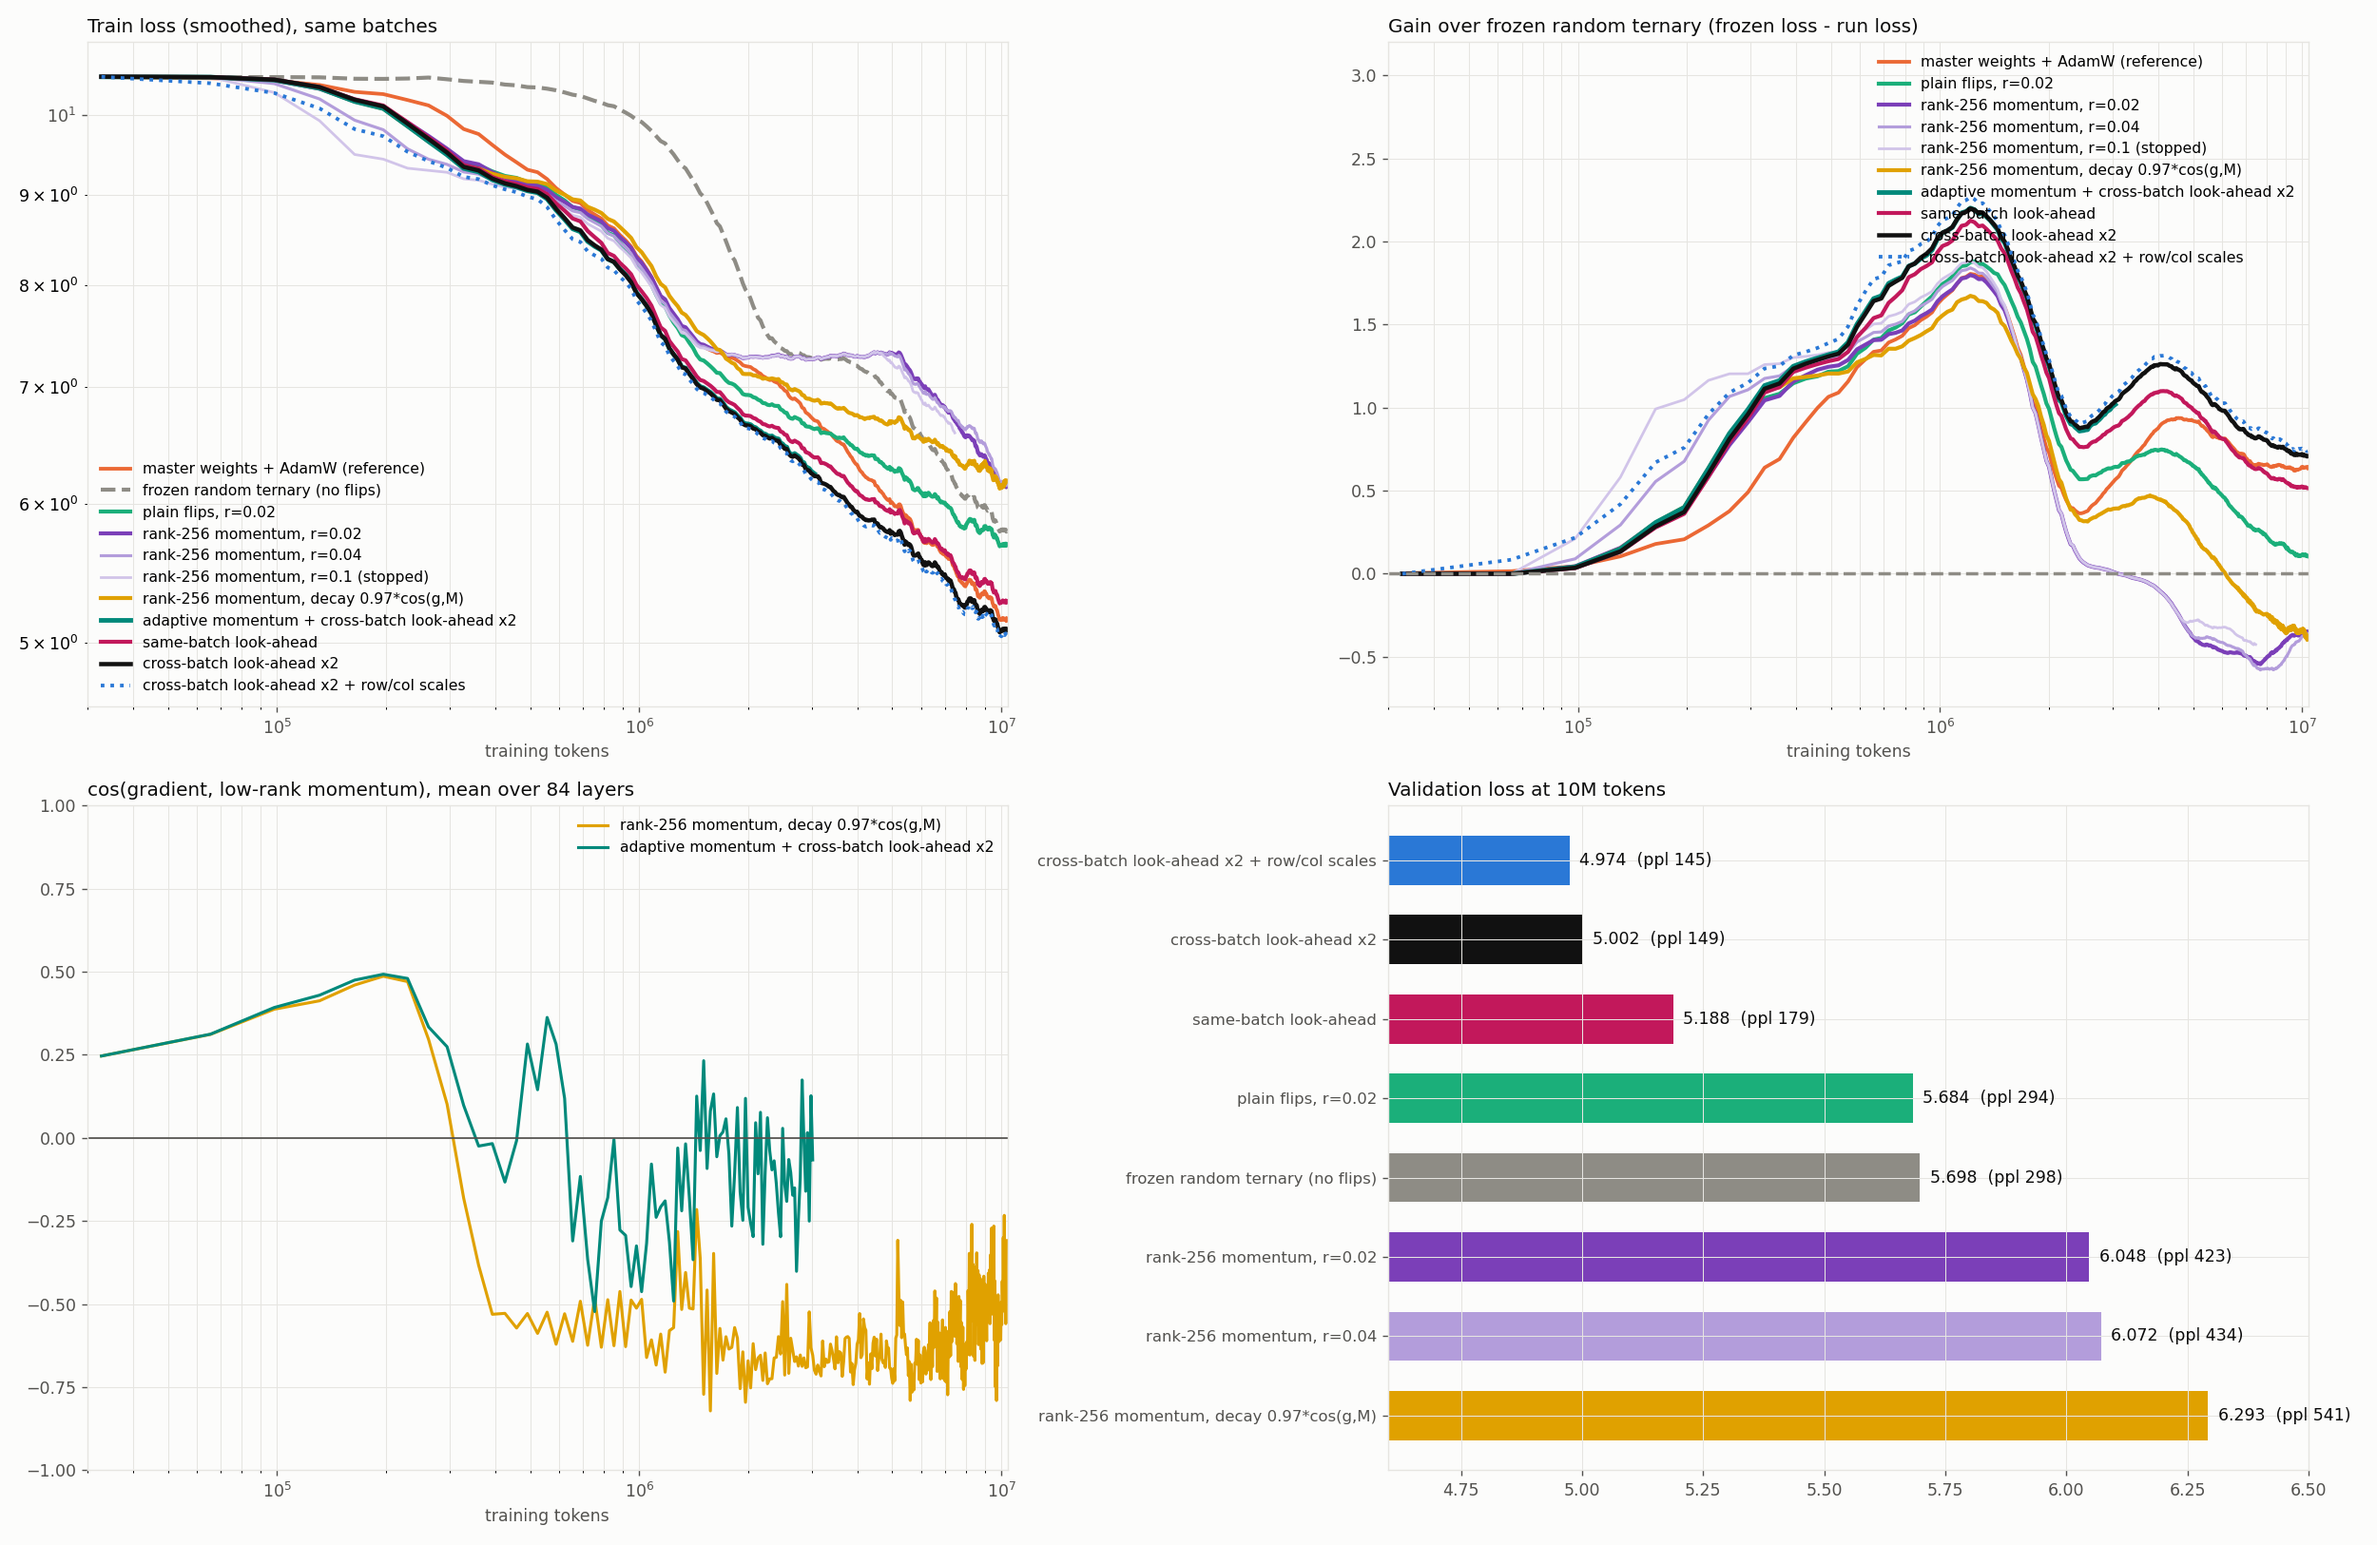
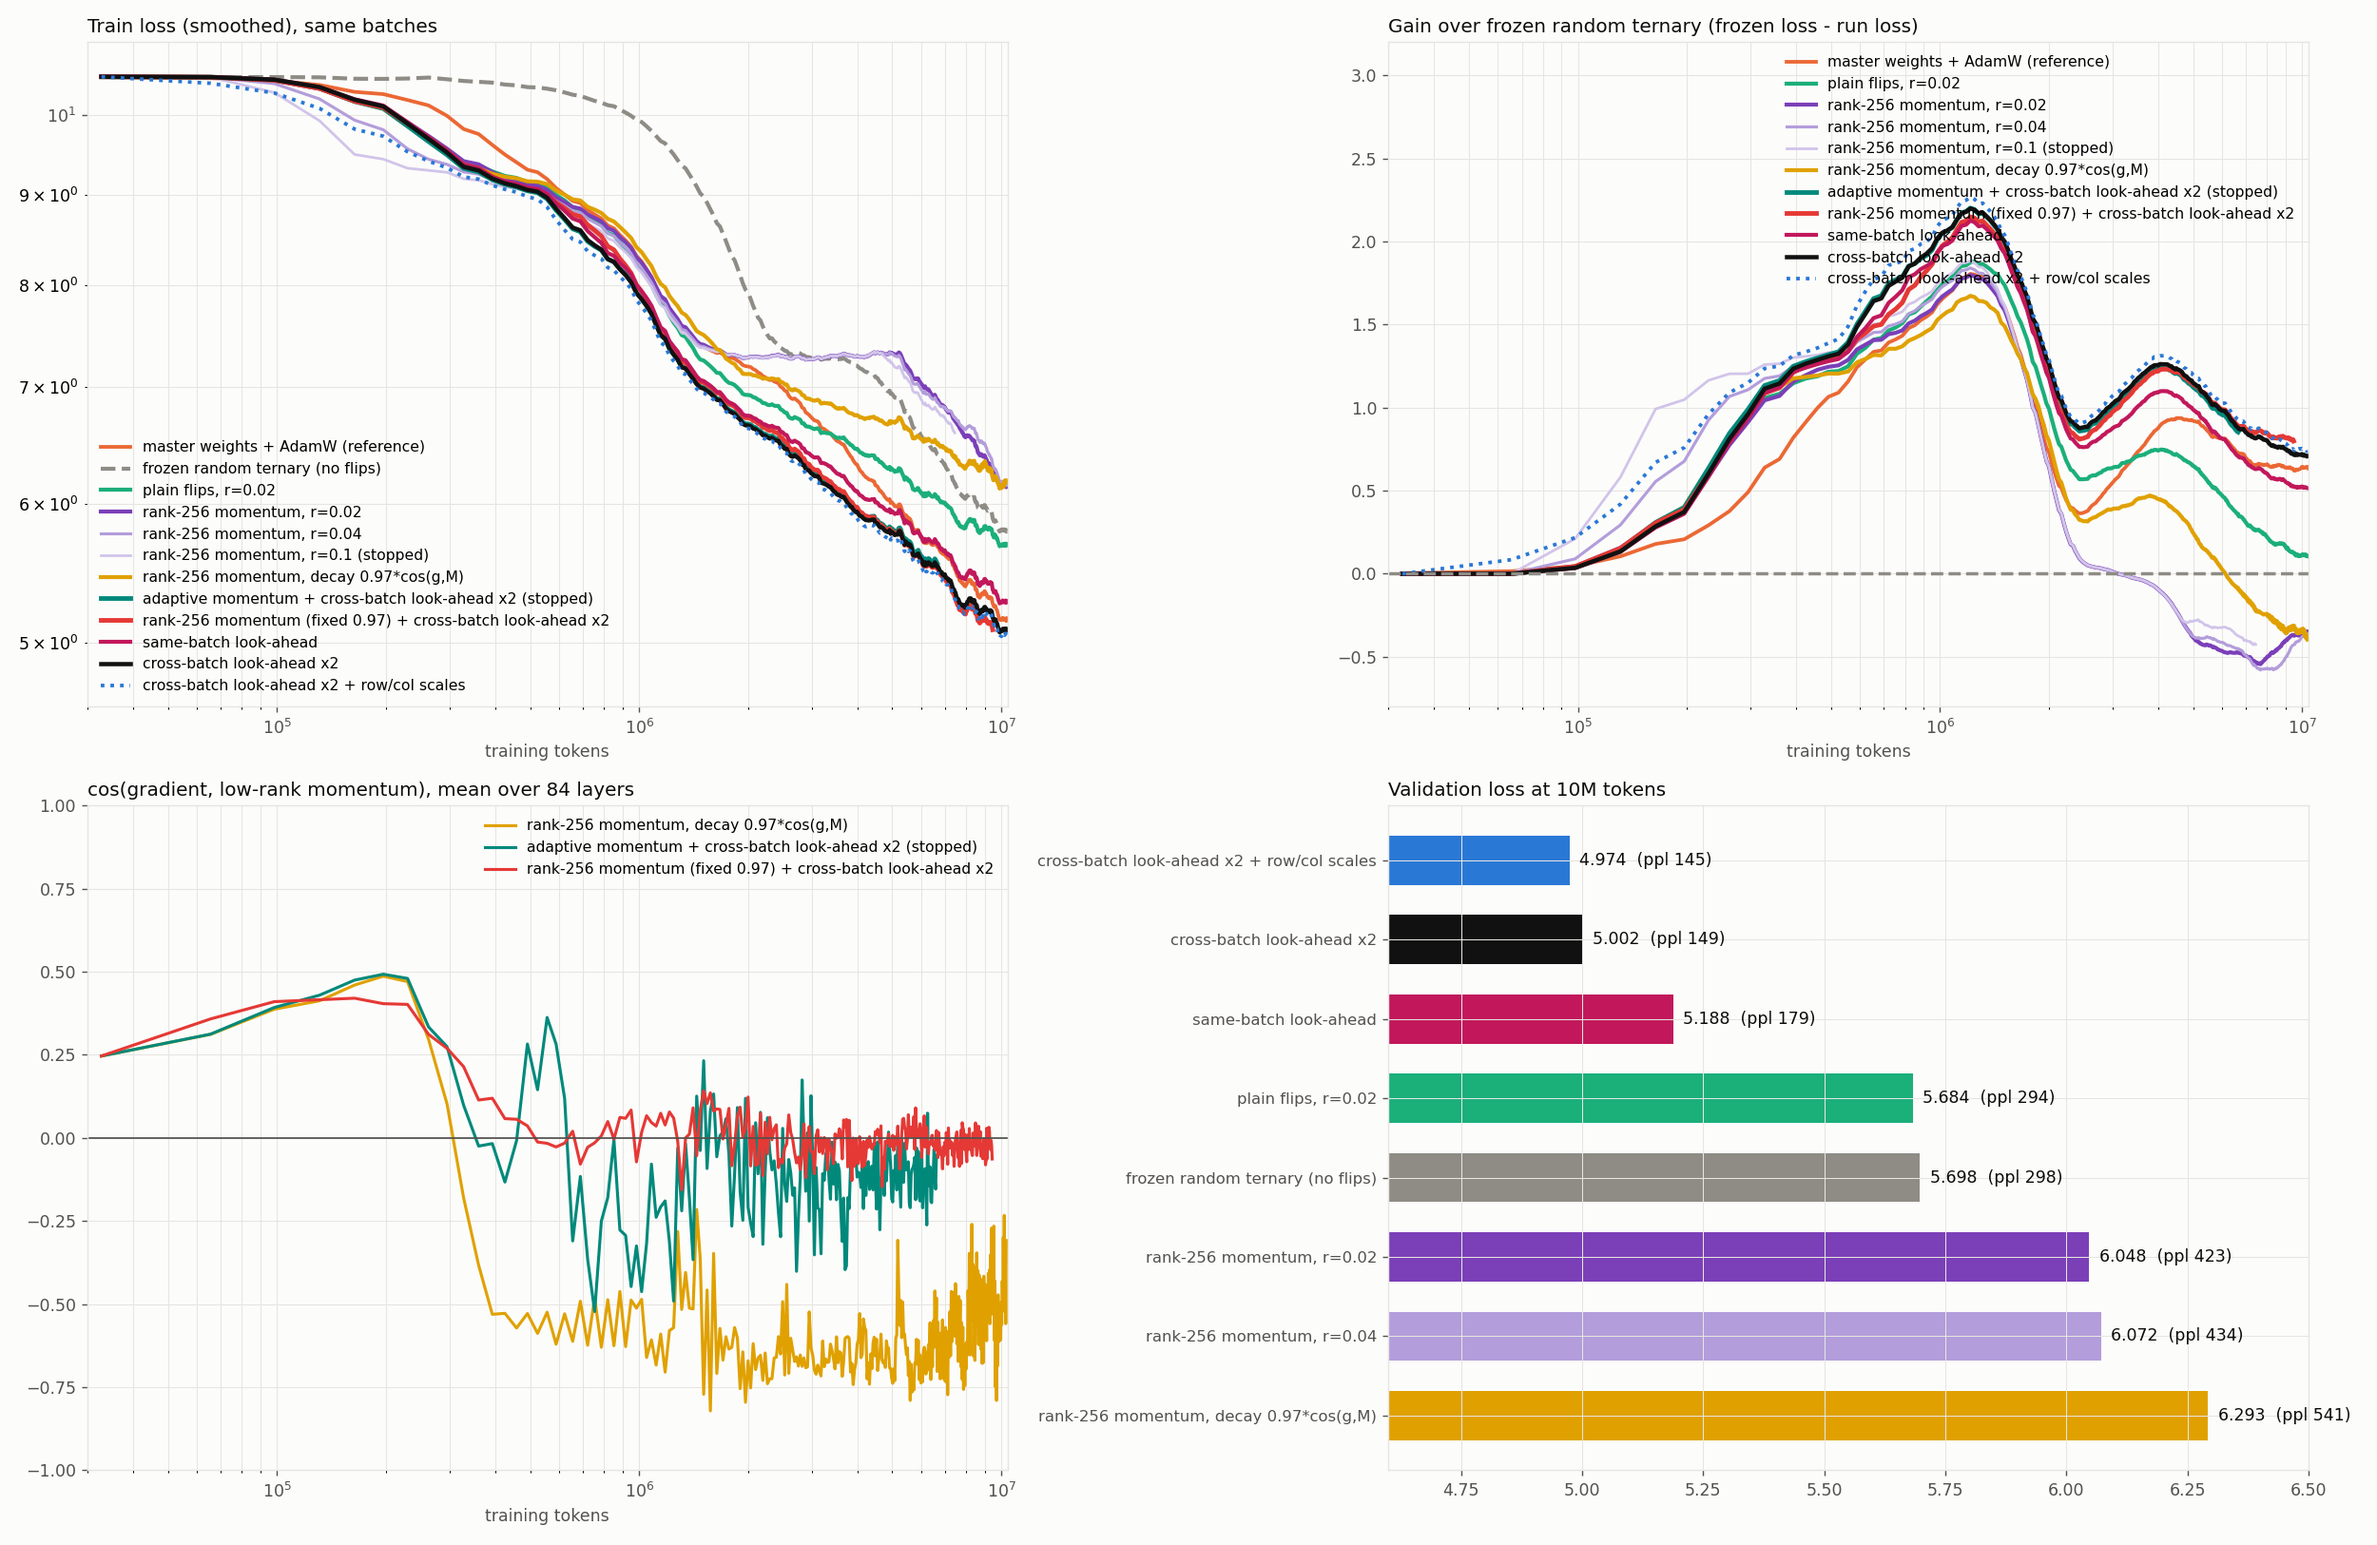
Plot: momentum + look-ahead vs look-ahead alone on the LM

diff --git a/scripts/plots/plot_lm_momentum_la.py b/scripts/plots/plot_lm_momentum_la.py
@@ -1,0 +1,64 @@
+"""Momentum + look-ahead on the LM vs look-ahead alone (la_xb2), per step: train-loss
+difference, cos(g, M), flips applied per step.
+
+  python -m scripts.plots.plot_lm_momentum_la
+"""
+import argparse, json, os
+import numpy as np
+import matplotlib
+matplotlib.use("Agg")
+import matplotlib.pyplot as plt
+
+SURFACE, INK, INK2, GRID = "#fcfcfb", "#0b0b0b", "#52514e", "#e6e5e1"
+BASE = "la_xb2"
+RUNS = [  # dir, label, color
+    ("lm_lowrank256_xb2", "rank-256 momentum, fixed beta 0.97 + look-ahead x2", "#e53935"),
+    ("lm_lowrank256_adapt_xb2", "rank-256 momentum, decay 0.97*cos + look-ahead x2 (stopped)", "#00897b"),
+    ("lm_plain", "plain flips, no look-ahead", "#1baf7a"),
+]
+
+
+def load(d):
+    rows = [json.loads(l) for l in open(f"checkpoints/{d}/metrics.jsonl")]
+    return {r["step"]: r for r in rows if "flip_frac" in r}
+
+
+def smooth(y, k=20):
+    c = np.cumsum(np.insert(y, 0, 0.0))
+    w = [min(k, i // 3 + 1) for i in range(len(y))]
+    return np.array([(c[i + 1] - c[i + 1 - w[i]]) / w[i] for i in range(len(y))])
+
+
+ap = argparse.ArgumentParser(); ap.add_argument("--out", default="docs/figures/lm_momentum_la.png")
+a = ap.parse_args()
+B = load(BASE)
+fig, (ax1, ax2, ax3) = plt.subplots(1, 3, figsize=(21, 6.5), facecolor=SURFACE)
+bs = sorted(B)
+ax3.plot(bs, smooth(np.array([B[s]["flip_frac"] * 100 for s in bs])), color="#111111", lw=2.4,
+         label="look-ahead x2 alone (la_xb2)")
+for d, lab, col in RUNS:
+    R = load(d); st = [s for s in sorted(R) if s in B]
+    diff = np.array([R[s]["loss"] - B[s]["loss"] for s in st])
+    ax1.plot(st, smooth(diff), color=col, lw=2.4, label=lab)
+    cs = [(s, R[s]["lr_cos"]) for s in st if "lr_cos" in R[s]]
+    if cs: ax2.plot([s for s, _ in cs], smooth(np.array([c for _, c in cs]), 5), color=col, lw=2.2, label=lab)
+    ax3.plot(st, smooth(np.array([R[s]["flip_frac"] * 100 for s in st])), color=col, lw=2.2, label=lab)
+R = load("lm_lowrank256_adapt")
+cs = [(s, R[s]["lr_cos"]) for s in sorted(R) if "lr_cos" in R[s]]
+ax2.plot([s for s, _ in cs], smooth(np.array([c for _, c in cs]), 5), color="#e0a100", lw=2.0,
+         label="rank-256 momentum, decay 0.97*cos, no look-ahead")
+for ax in (ax1, ax2): ax.axhline(0, color=INK2, lw=1)
+ax1.set_ylim(-0.3, 0.8); ax2.set_ylim(-1, 1)
+titles = ("Train loss minus look-ahead x2 alone (same batches; <0 = better)",
+          "cos(gradient, momentum), mean over 84 layers",
+          "Trits changed per step (%)")
+for ax, tt in zip((ax1, ax2, ax3), titles):
+    ax.set_title(tt, loc="left", color=INK, fontsize=11.5)
+    ax.set_facecolor(SURFACE); ax.grid(True, color=GRID, lw=0.6)
+    ax.set_xlabel("step (32,768 tokens each)", color=INK2); ax.tick_params(colors=INK2)
+    for sp in ax.spines.values(): sp.set_color(GRID)
+    ax.legend(fontsize=9, frameon=False)
+fig.tight_layout()
+os.makedirs(os.path.dirname(a.out) or ".", exist_ok=True)
+fig.savefig(a.out, dpi=125, facecolor=SURFACE)
+print("wrote", a.out)

diff --git a/scripts/plots/plot_lm10m.py b/scripts/plots/plot_lm10m.py
@@ -19,7 +19,8 @@ RUNS = [  # dir, label, color, width, style
     ("lm_lowrank256_r04", "rank-256 momentum, r=0.04",          "#b39ddb", 1.8, "-"),
     ("lm_lowrank256_r1", "rank-256 momentum, r=0.1 (stopped)",  "#d1c4e9", 1.6, "-"),
     ("lm_lowrank256_adapt", "rank-256 momentum, decay 0.97*cos(g,M)", "#e0a100", 2.4, "-"),
-    ("lm_lowrank256_adapt_xb2", "adaptive momentum + cross-batch look-ahead x2", "#00897b", 2.8, "-"),
+    ("lm_lowrank256_adapt_xb2", "adaptive momentum + cross-batch look-ahead x2 (stopped)", "#00897b", 2.8, "-"),
+    ("lm_lowrank256_xb2", "rank-256 momentum (fixed 0.97) + cross-batch look-ahead x2", "#e53935", 2.8, "-"),
     ("la_fast_fp32tail", "same-batch look-ahead",               "#c2185b", 2.4, "-"),
     ("la_xb2",           "cross-batch look-ahead x2",           "#111111", 2.6, "-"),
     ("la_xb2_rc",        "cross-batch look-ahead x2 + row/col scales", "#2a78d6", 2.2, ":"),
